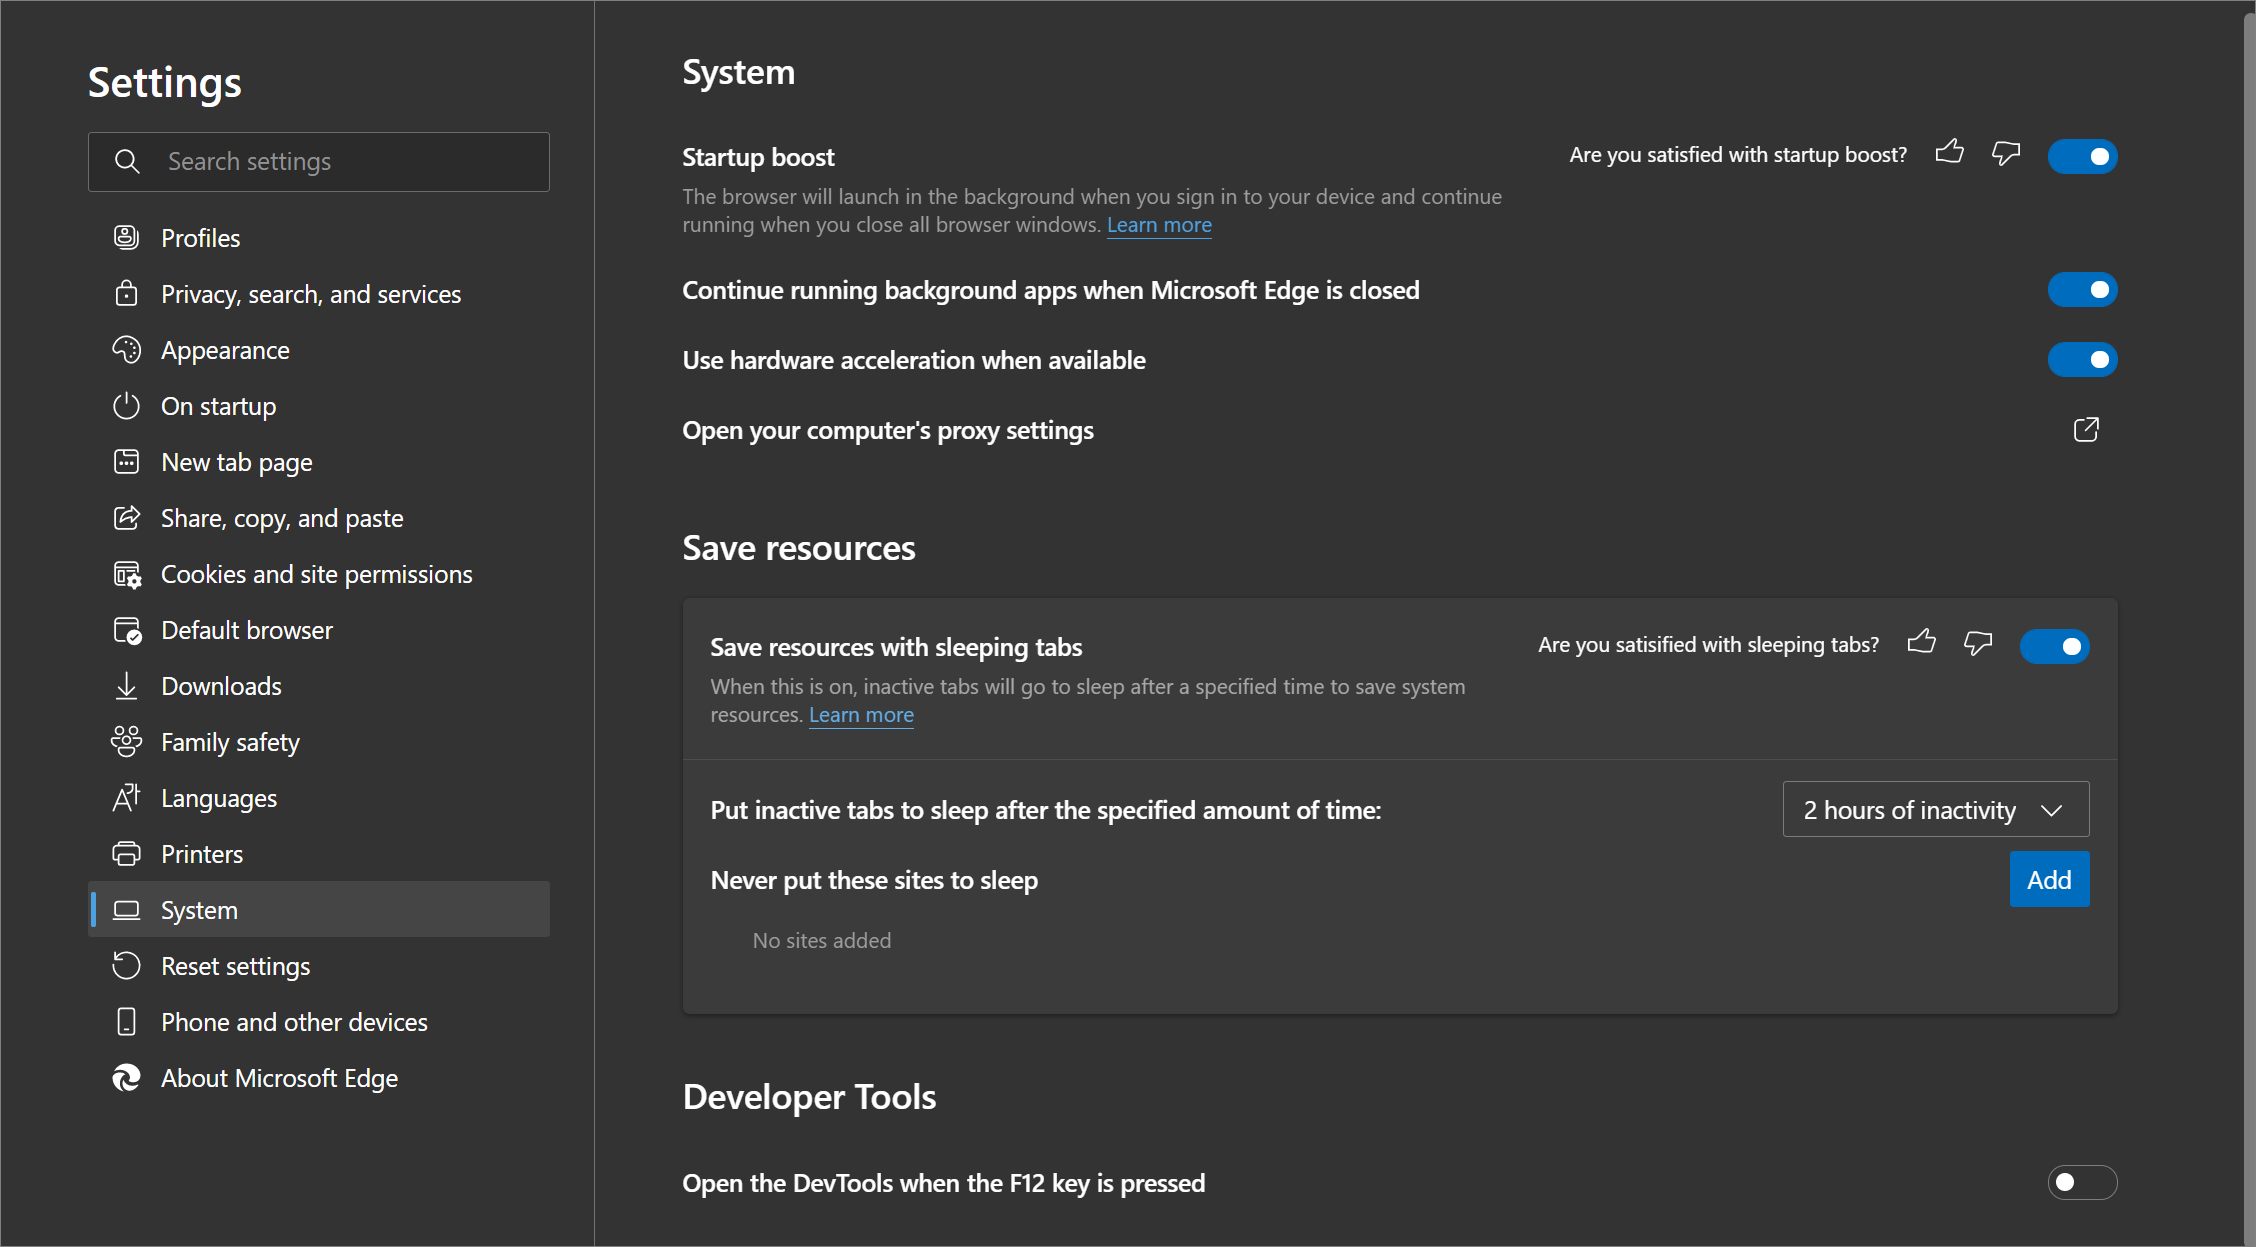
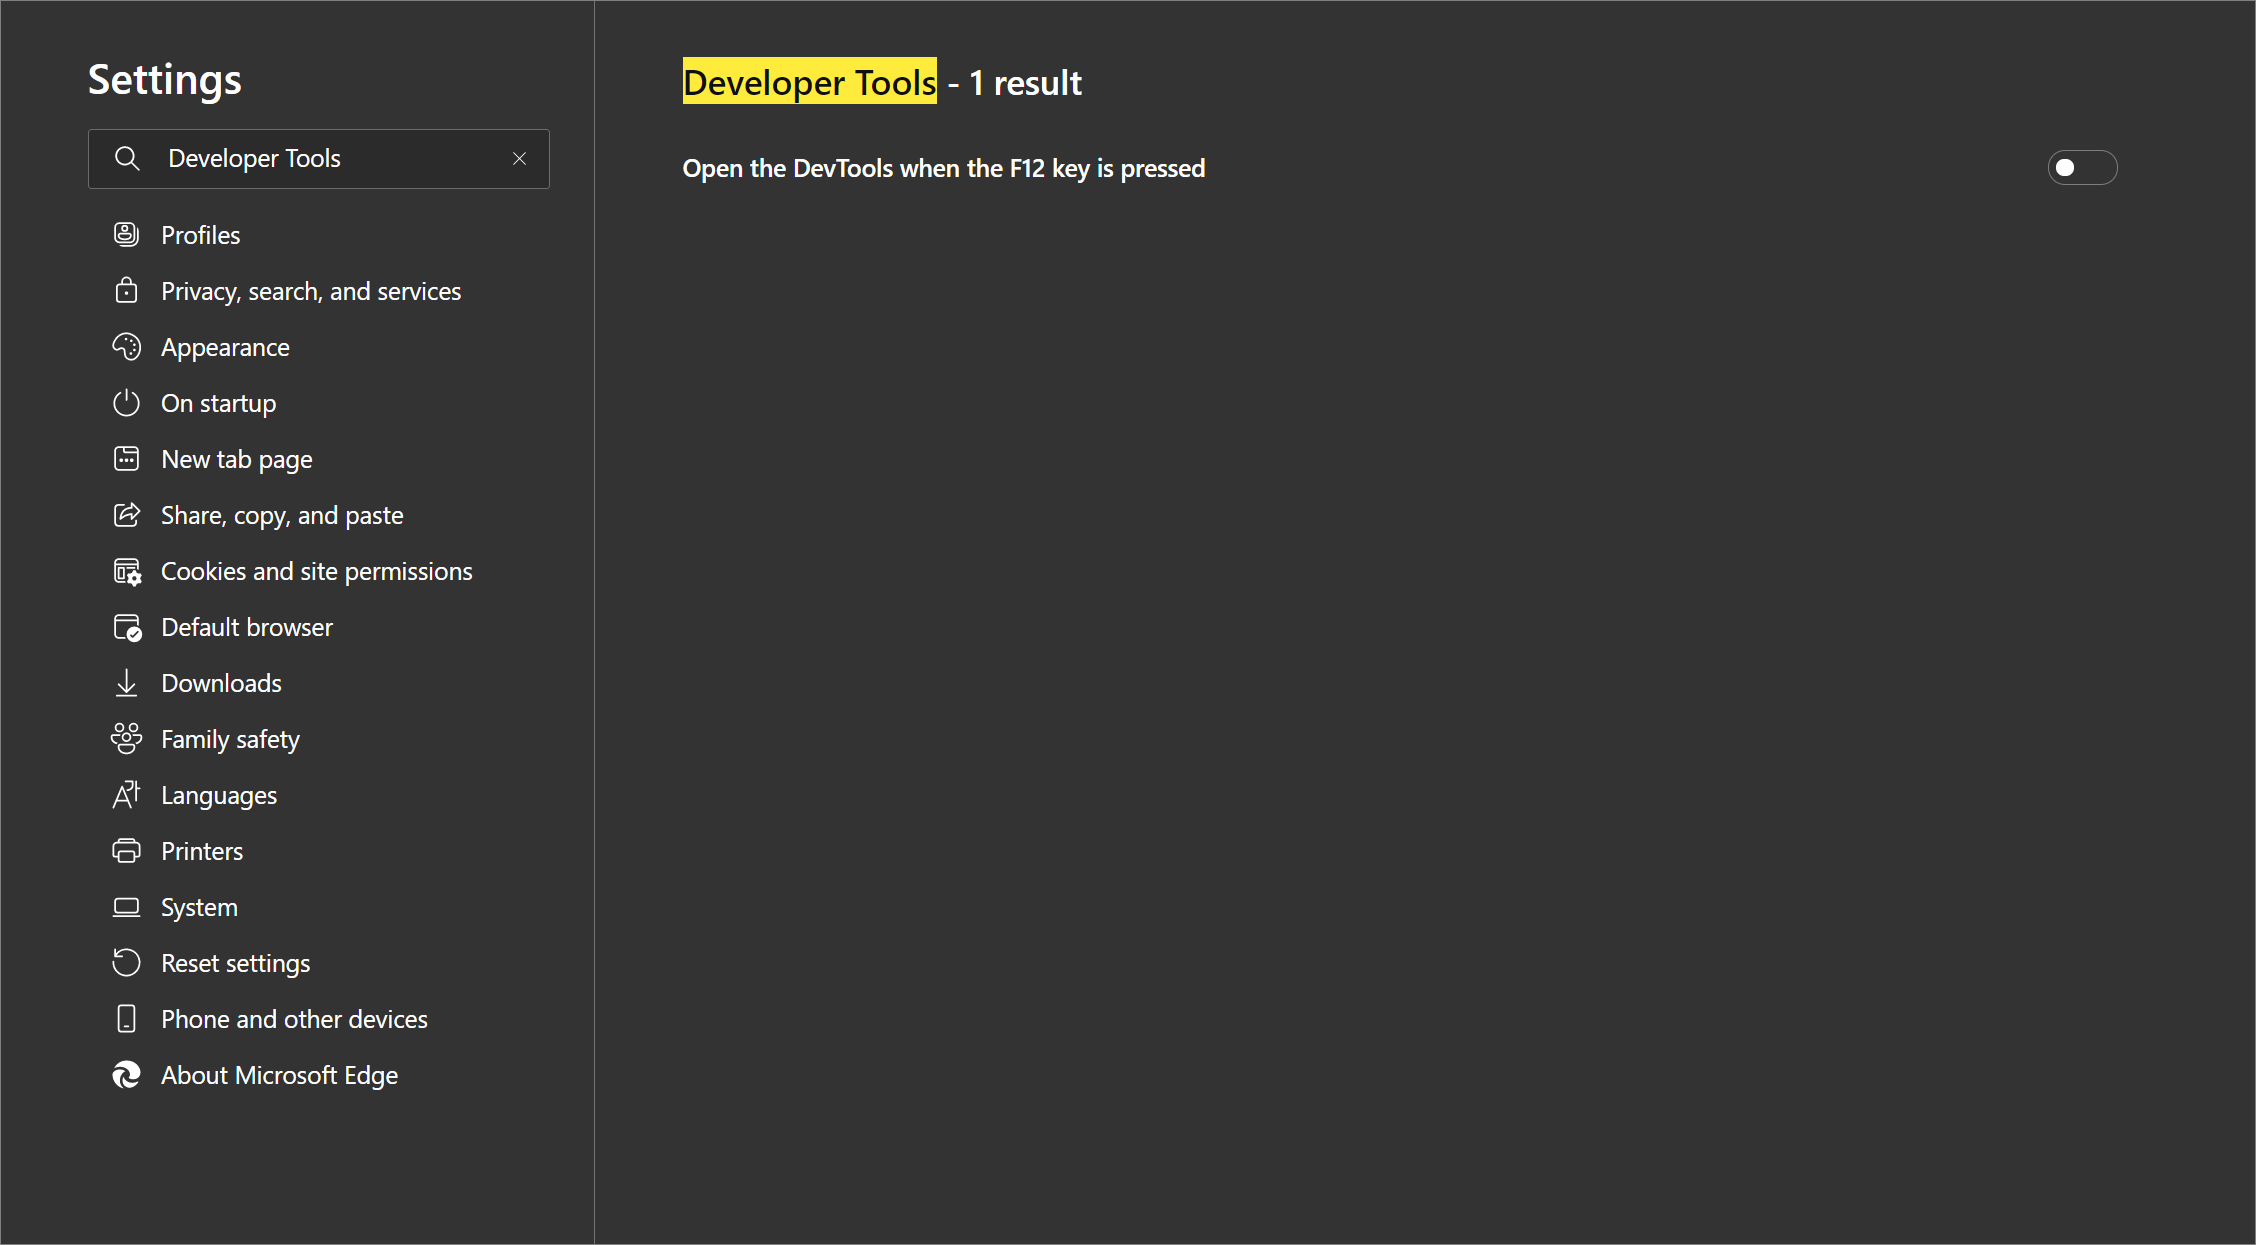
commit from WebFundamentals

diff --git a/microsoft-edge/devtools-guide-chromium/open.md b/microsoft-edge/devtools-guide-chromium/open.md
@@ -112,13 +112,16 @@ microsoft-edge-dev --auto-open-devtools-for-tabs
 
 ## Turn off F12 opening DevTools  
 
-If you do not want `F12` to open the DevTools, complete the following actions.
+If you do not want selecting `F12` to open the DevTools, complete the following actions.
 
-1.  Open a new tab and navigate to `edge://settings/system`.
-    :::image type="complex" source="./media/devtools-f12-setting-on.msft.png" alt-text="The edge://settings/system page" lightbox="./media/devtools-f12-setting-on.msft.png":::
-      The `edge://settings/system` page  
+Select the ... icon (the Settings and more icon).
+
+1.  Select the  `...` icon \(the **Settings and more** icon\) > **Settings**.  
+1.  In the **Search settings** textbox, enter **Developer Tools**.
+    :::image type="complex" source="./media/devtools-f12-setting-on.msft.png" alt-text="The Open the DevTools when the F12 key is pressed setting" lightbox="./media/devtools-f12-setting-on.msft.png":::
+      The **Open the DevTools when the F12 key is pressed** setting
     :::image-end:::  
-1.  Under **Developer Tools**, select the **Open the DevTools when the F12 key is pressed** toggle to turn it off.
+1.  Select the **Open the DevTools when the F12 key is pressed** toggle to turn it off.
     :::image type="complex" source="./media/devtools-f12-setting-off.msft.png" alt-text="Turning the 'Open the DevTools when the F12 key is pressed' setting off" lightbox="./media/devtools-f12-setting-on.msft.png":::
       The **Open the DevTools when the F12 key is pressed** setting is turned off  
     :::image-end:::  
